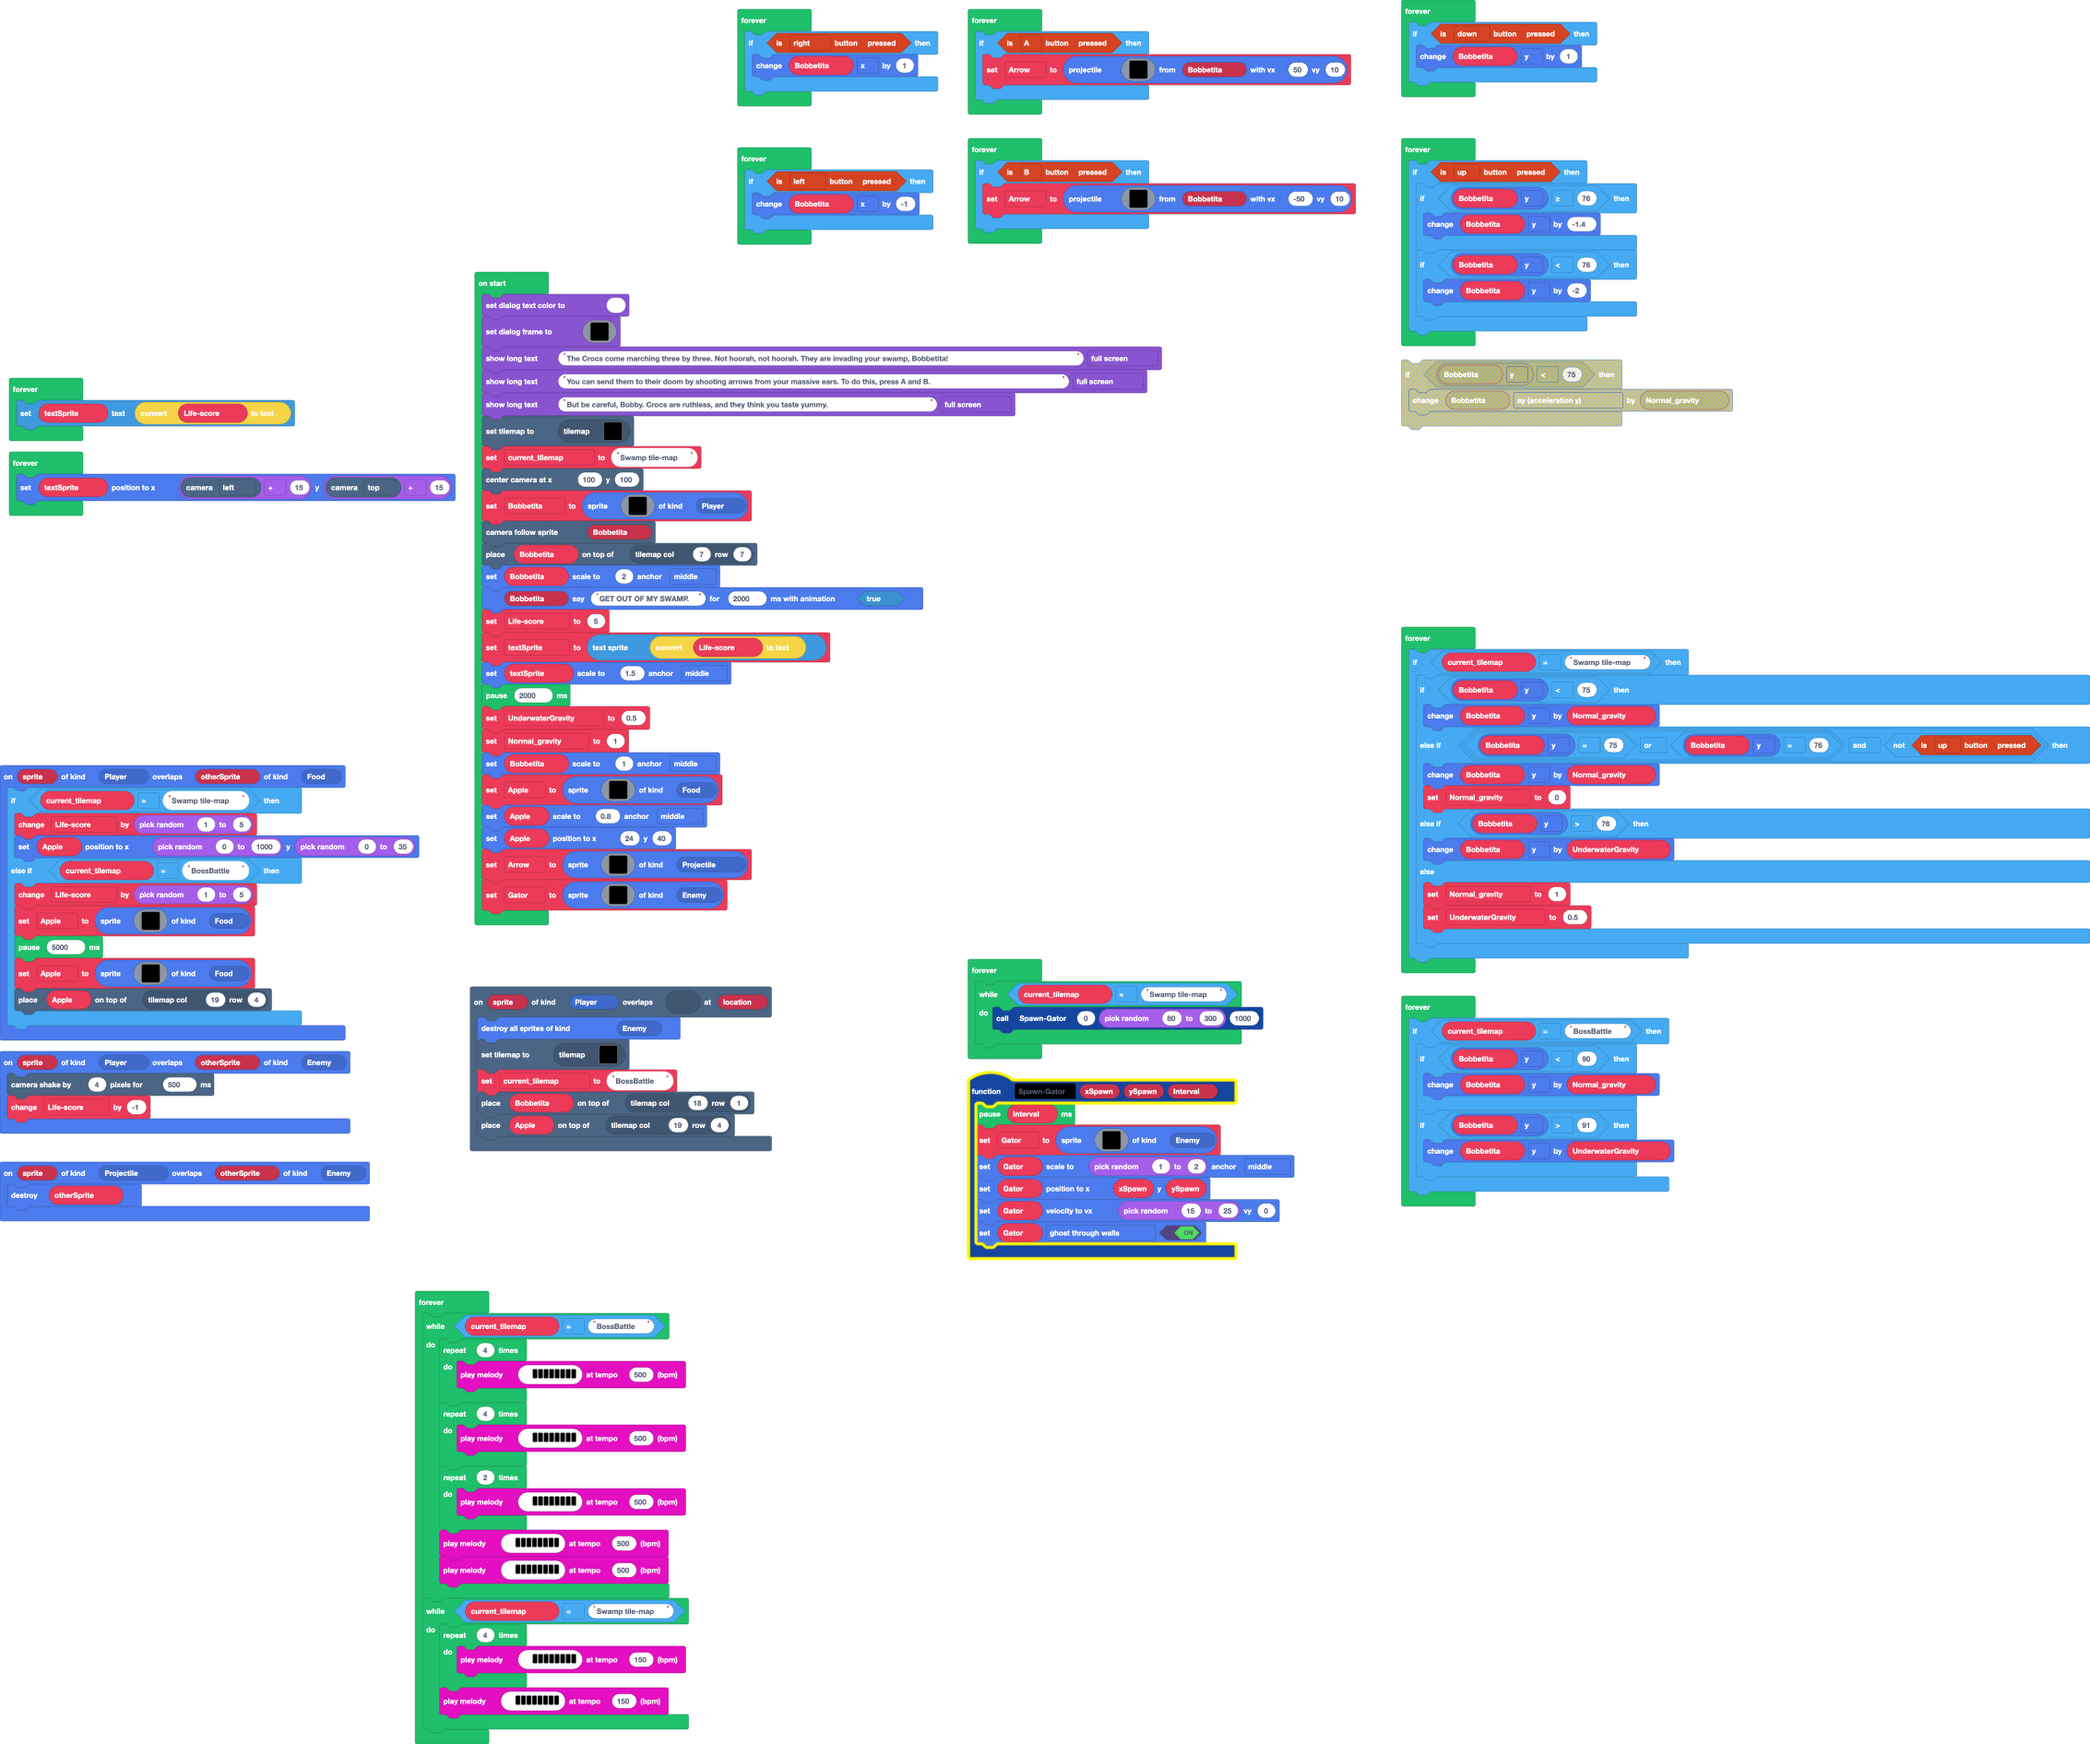
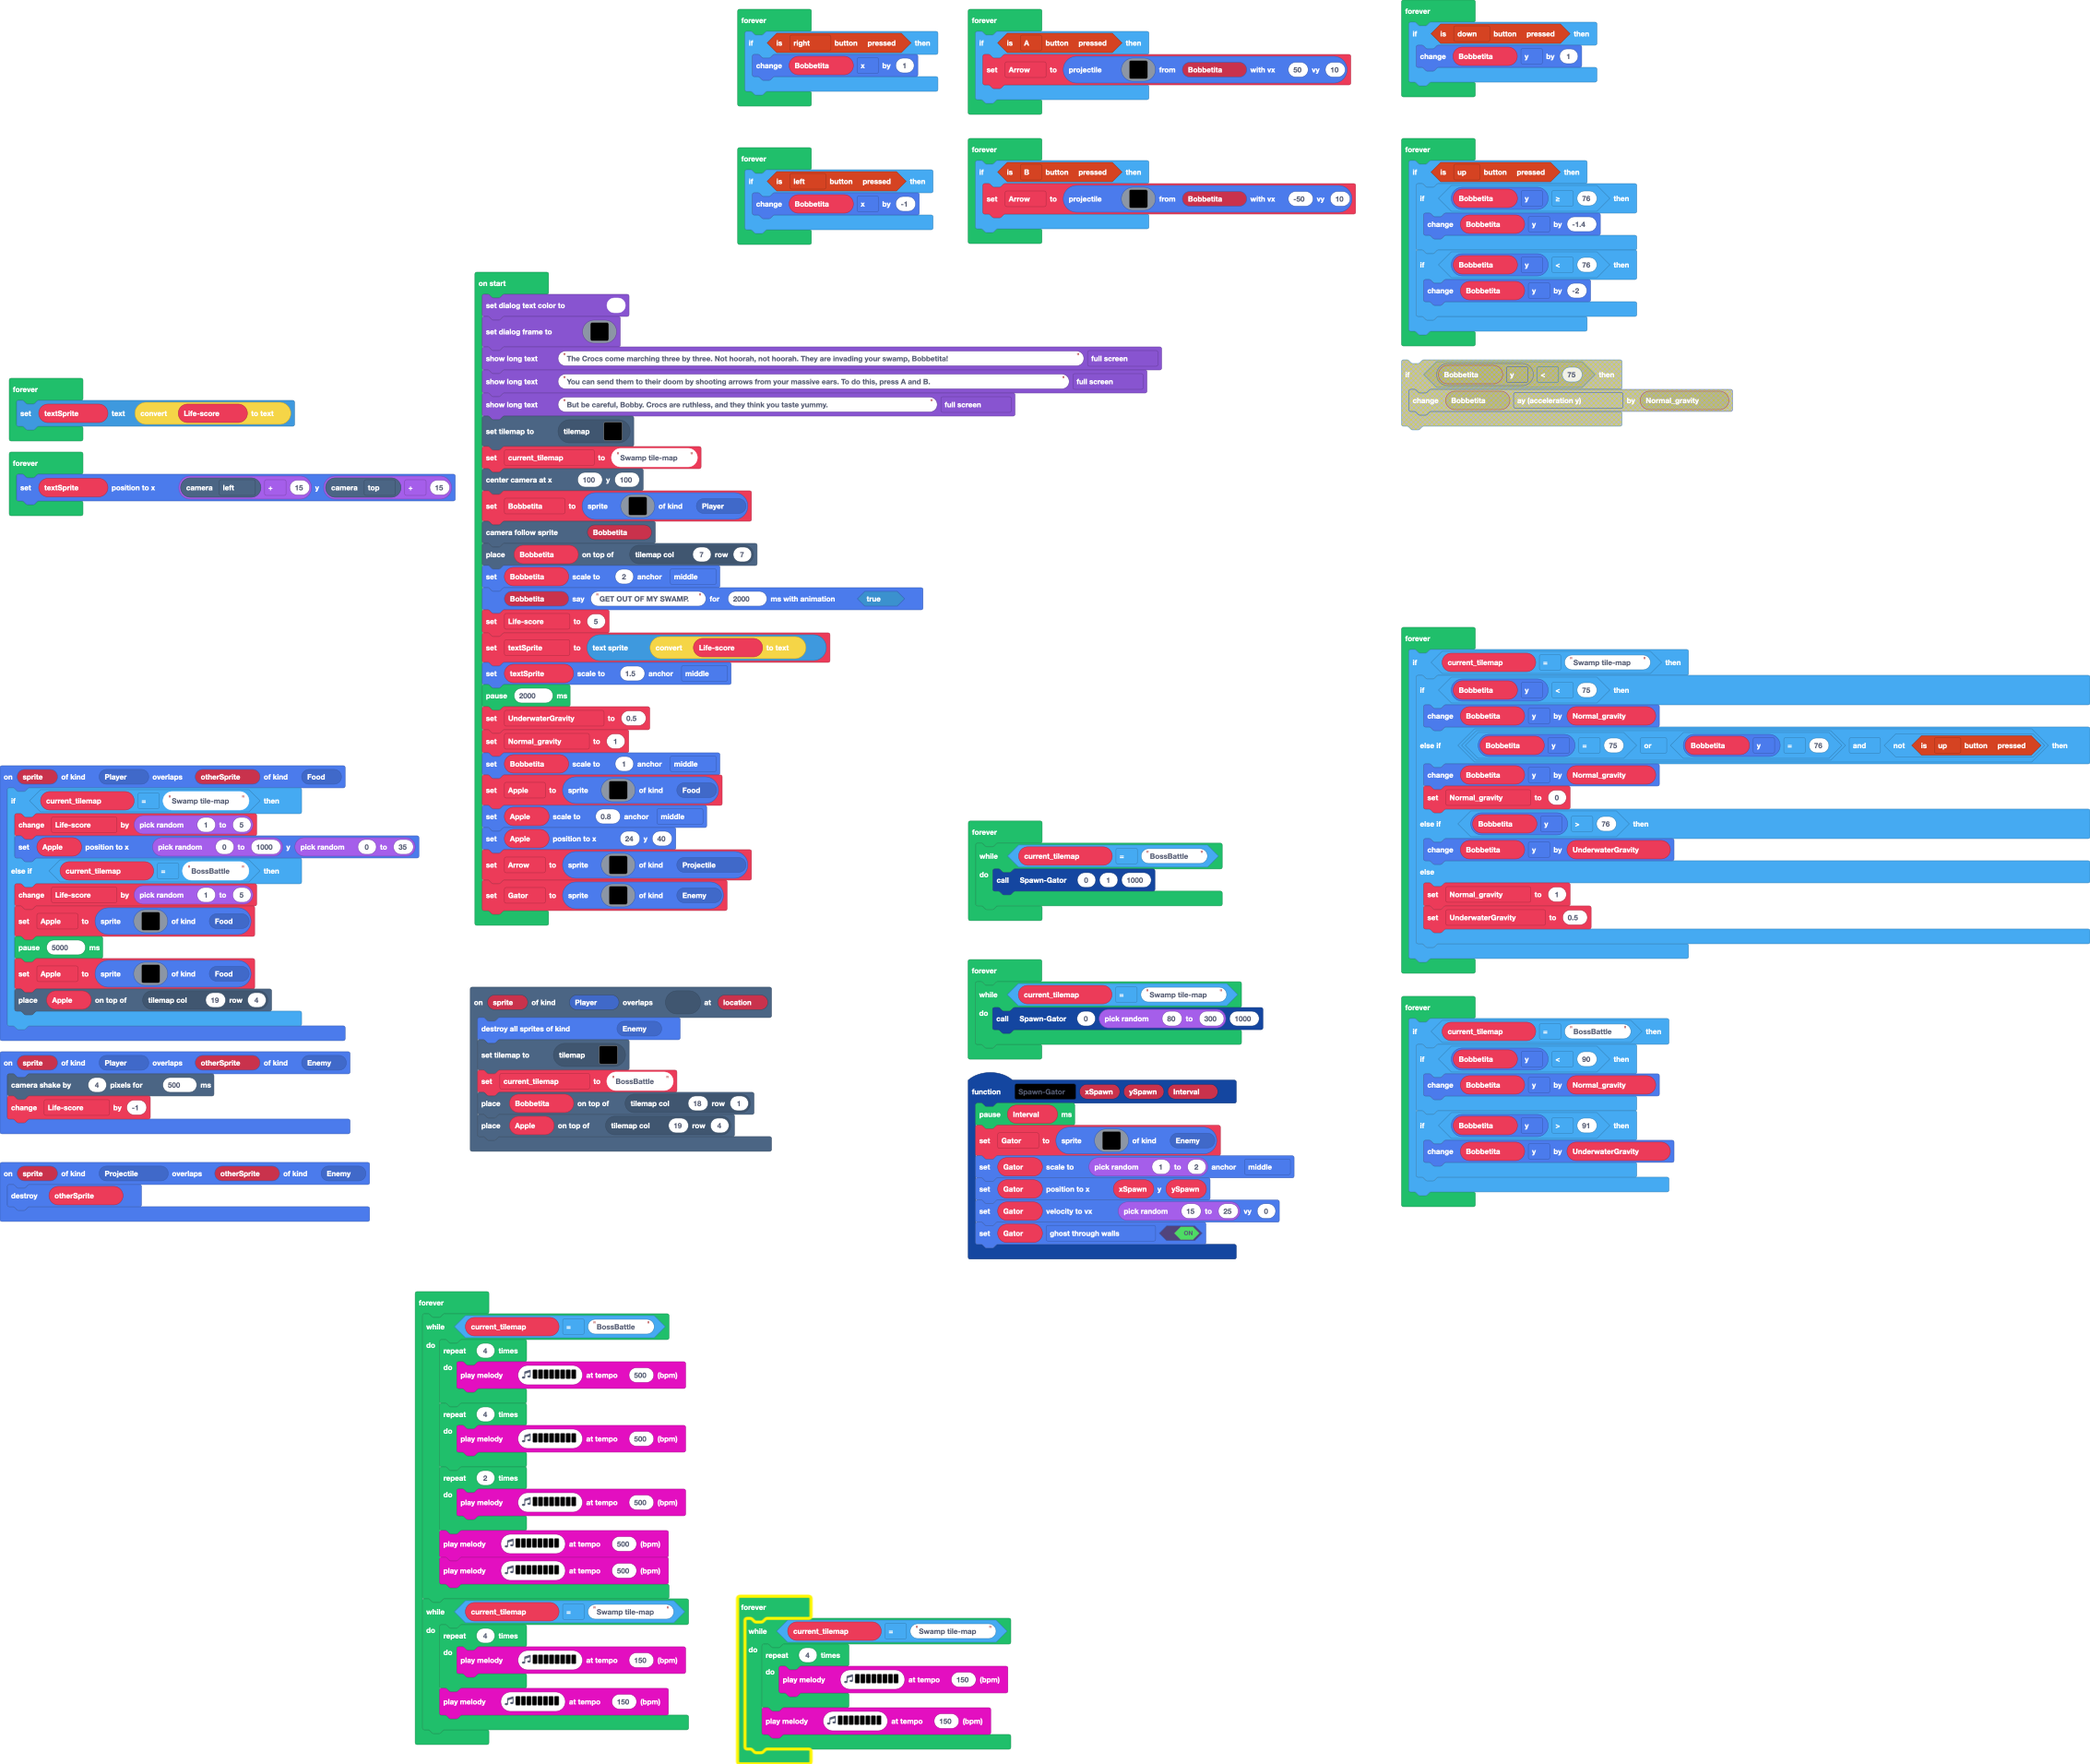
Added harmony to the music

diff --git a/main.ts b/main.ts
@@ -122,6 +122,11 @@ forever(function () {
     }
 })
 forever(function () {
+    while (current_tilemap == "BossBattle") {
+        SpawnGator(0, 1, 1000)
+    }
+})
+forever(function () {
     while (current_tilemap == "Swamp tile-map") {
         SpawnGator(0, randint(80, 300), 1000)
     }
@@ -155,5 +160,13 @@ forever(function () {
             music.playMelody("C5 G A B C5 G A B ", 150)
         }
         music.playMelody("D E F G A G A B ", 150)
+    }
+})
+forever(function () {
+    while (current_tilemap == "Swamp tile-map") {
+        for (let index = 0; index < 4; index++) {
+            music.playMelody("C C C C C C C C ", 150)
+        }
+        music.playMelody("C5 B A G F E D C ", 150)
     }
 })
